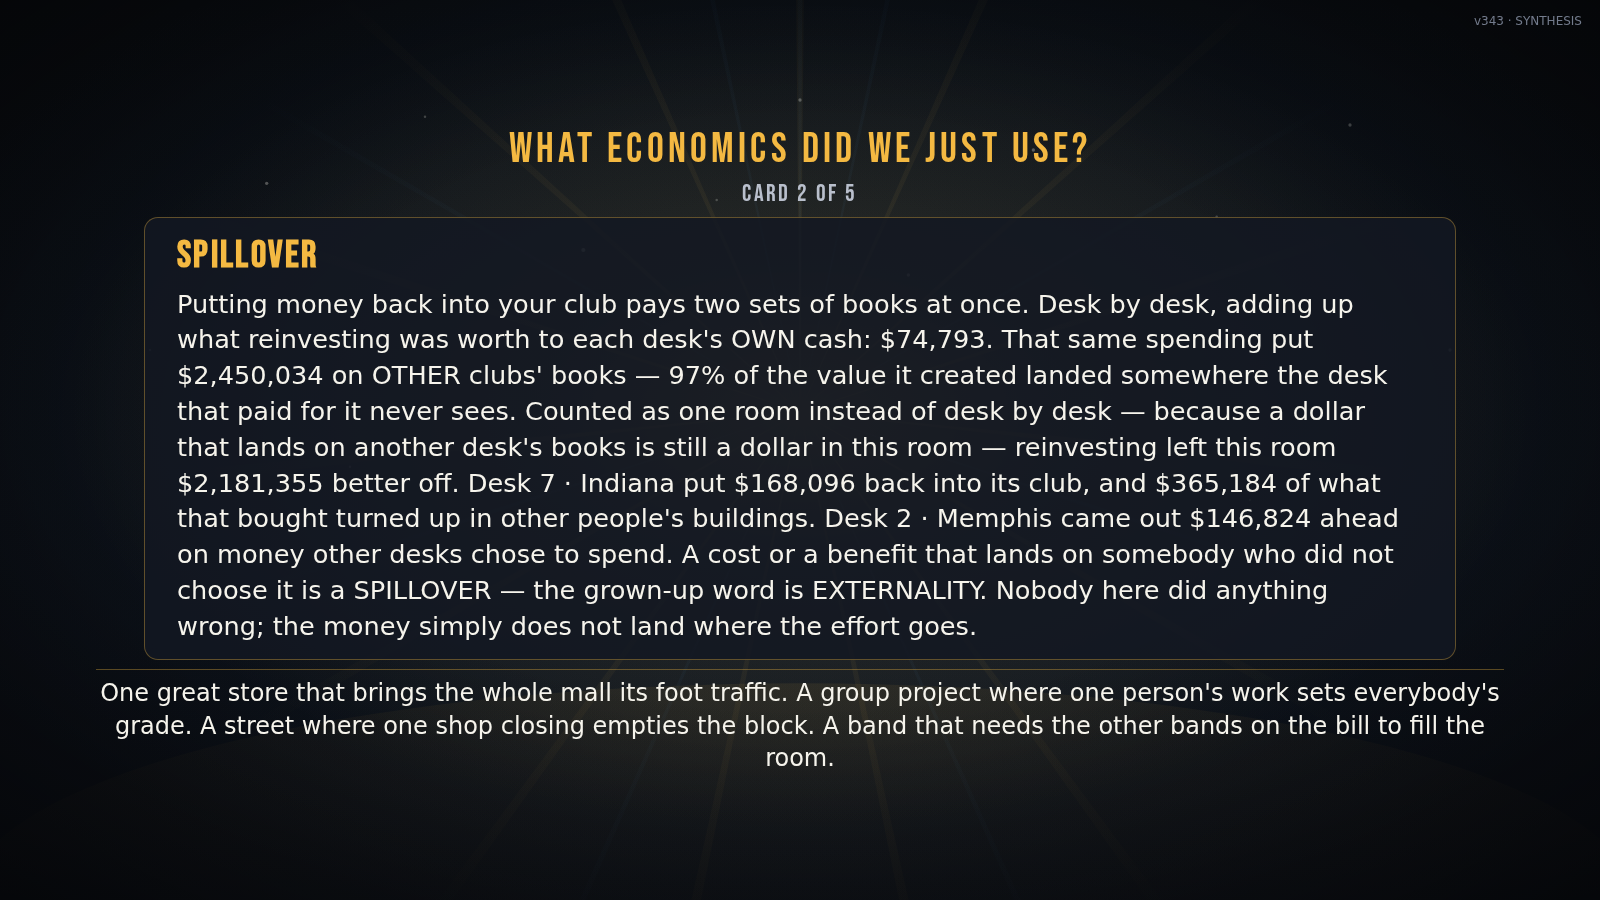
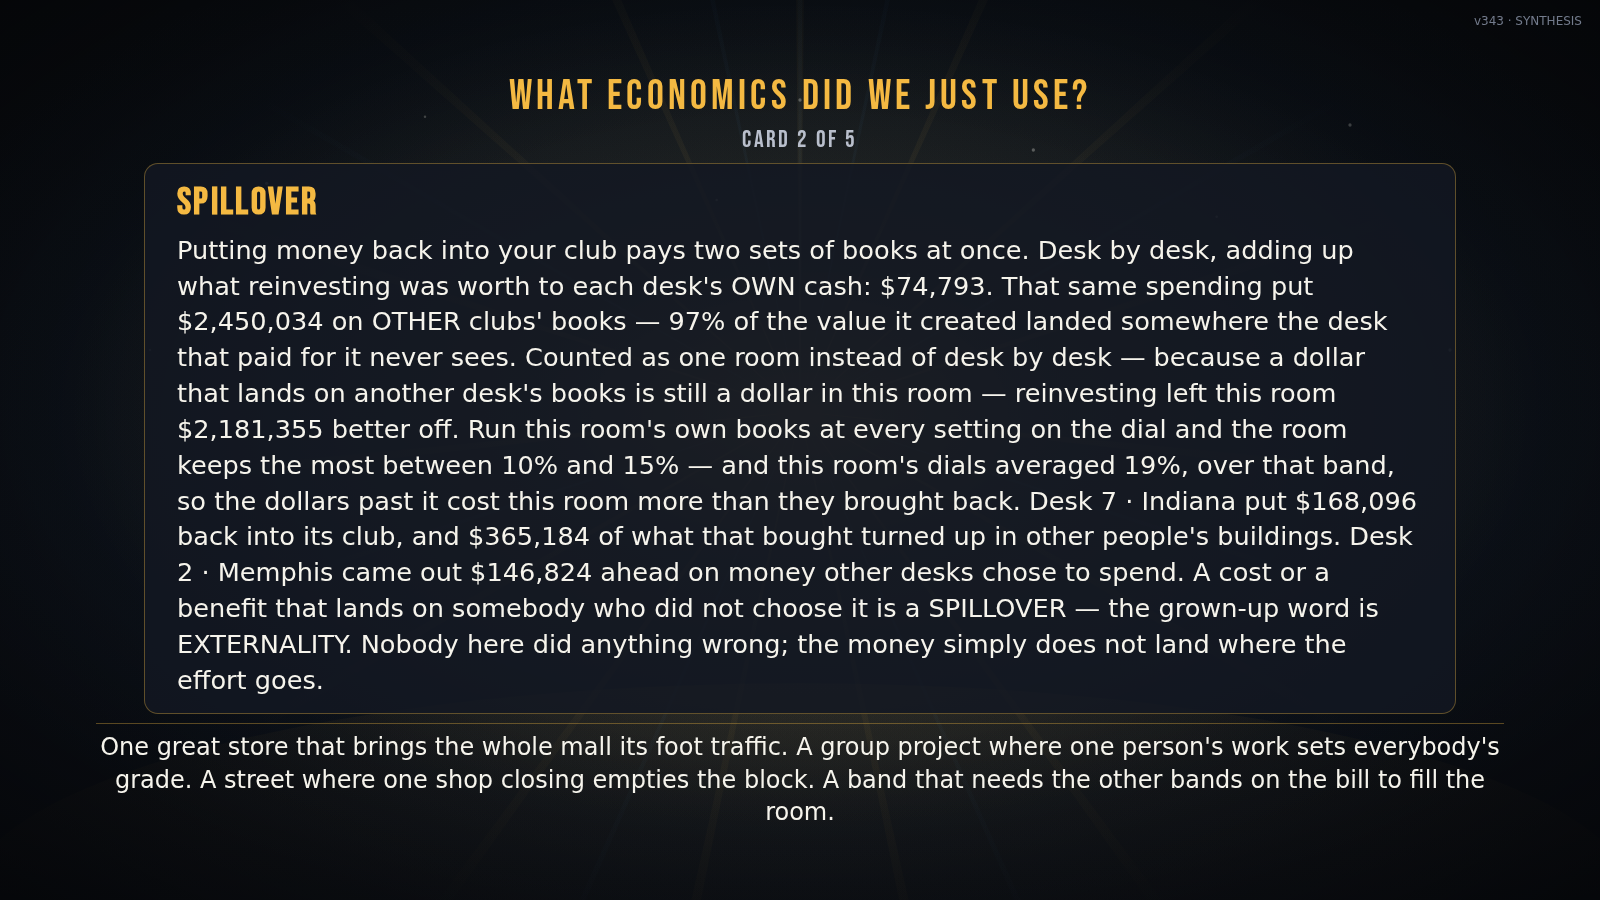
boss(m2): w4 repair 2 — computed prescription band with level-audited atoms (8/8 mutants); FL-M retitled

Changed region(s): [[0.0625, 0.0622, 0.9375, 0.9022]]

diff --git a/runtime/src/test/hostTheLeague.test.ts b/runtime/src/test/hostTheLeague.test.ts
@@ -25,6 +25,7 @@ import {
   MAX_DESKS,
   NATIONAL,
   OFFSETS,
+  OPTIMUM_BAND_TOLERANCE,
   PRICE_GRID,
   PRICE_MAX,
   PRICE_MIN,
@@ -48,6 +49,8 @@ import {
   priceCounterfactualFor,
   reinvestChangeLine,
   reinvestRuleFor,
+  roomCashAtShiftedShares,
+  roomCashAtUniformShare,
   sawBarBeforeWeek3,
   scheduleFor,
   teachStage5MirrorClaimed,
@@ -1070,11 +1073,18 @@ test("econ B9 (N11): no surface ever says over-investment in a room that came ou
         }
         if (ct.roomJointGain < 0 && ct.externalPct === null) {
           assert.equal(
-            /less went back in than this room's own numbers would justify/.test(surface.text),
+            /the room as a whole still came out ahead/.test(surface.text),
             false,
-            `${P.label} · ${S.label} · ${surface.surface}: under-provision printed in a room that came out behind`,
+            `${P.label} · ${S.label} · ${surface.surface}: "came out ahead" printed in a room that came out behind`,
           );
         }
+        // econ N17/FL-L: the retired clause may not come back anywhere, in any
+        // arm, on any surface. It was a marginal claim decided by a total.
+        assert.equal(
+          /less went back in than this room's own numbers would justify/.test(surface.text),
+          false,
+          `${P.label} · ${S.label} · ${surface.surface}: the retired FL-L clause is back on a surface`,
+        );
       }
       // The branch word is an ATOM, so the audit can see it — not prose beside one.
       const spill = spilloverClaim(ct);
@@ -1084,7 +1094,7 @@ test("econ B9 (N11): no surface ever says over-investment in a room that came ou
         assert.equal(
           noun!.rendered,
           ct.roomJointGain > 0
-            ? "less went back in than this room's own numbers would justify"
+            ? "the room as a whole still came out ahead"
             : ct.roomJointGain < 0
               ? "this room over-invested"
               : "the room came out exactly level",
@@ -1097,6 +1107,165 @@ test("econ B9 (N11): no surface ever says over-investment in a room that came ou
   assert.ok(withheld > 0, "no room in the sweep withheld the share — the branch under test never fired");
   assert.ok(ahead > 0, "no room in the sweep came out jointly ahead — the N11 case was never exercised");
   assert.ok(behind > 0, "no room in the sweep came out jointly behind — the over-investment case was never exercised");
+});
+
+test("econ B11 (N17): the level instrument reproduces the room's ACTUAL books exactly, and reduces to the room's own weeks", () => {
+  // `roomCashAtShares` is the whole basis of the level sentence, so the first
+  // thing it has to survive is the identity: fed each week's own share back, it
+  // must land on the number the reducer actually settled, to the dollar. If it
+  // drifts here it is not this room's books and no sentence built on it means
+  // anything.
+  for (const desks of [8, 12]) {
+    for (const price of [30, 50, 70, 110]) {
+      for (const shape of [() => 0, () => 10, () => 25, () => SHARE_MAX, (i: number) => (i % 2 === 0 ? 0 : SHARE_MAX), (i: number) => SHARE_GRID[i % SHARE_GRID.length]!]) {
+        let room = seated(desks);
+        for (let w = 0; w < WEEK_COUNT; w += 1) room = playWeek(room, () => price, shape);
+        const settled = room.clubs
+          .filter((c) => c.seatId !== null && c.weeks.length > 0)
+          .reduce((sum, c) => sum + c.weeks.reduce((t, w) => t + w.net, 0), 0);
+        assert.equal(
+          roomCashAtShiftedShares(room, 0),
+          settled,
+          `${desks} desks · $${price}: the level instrument disagrees with the room's settled cash`,
+        );
+      }
+    }
+  }
+});
+
+test("econ B11/FL-L (N17, BLOCKING): no surface tells a room to put MORE back in where a one-step increase lowers room cash", () => {
+  // THE BLOCKING FAILURE, stated as a property. The retired clause — "less went
+  // back in than this room's own numbers would justify" — was a claim about the
+  // room's LEVEL decided by the SIGN of a total. It fired only at shares >= 25%
+  // and the room's own books peak at 10-15%, so a uniform +5pp step made those
+  // rooms jointly WORSE off in 68 of 86 rooms the econ critic measured. The
+  // prescription is now built from `roomOptimum` and may only print where the
+  // room's own one-step gradient agrees.
+  const PRESCRIBE_MORE = "putting more back in would have left this room holding more money";
+  const PRESCRIBE_LESS = "the dollars past it cost this room more than they brought back";
+  const arms: Record<string, number> = {};
+  let checkedMore = 0;
+  let checkedLess = 0;
+  let upHurtRooms = 0;
+  for (const desks of [8, 12]) {
+    for (const price of [30, 50, 70, 90, 110]) {
+      for (const shape of [
+        () => 0,
+        () => 5,
+        () => 10,
+        () => 15,
+        () => 25,
+        () => SHARE_MAX,
+        (i: number) => (i % 2 === 0 ? 0 : SHARE_MAX),
+        (i: number) => (i === 0 ? SHARE_MAX : 0),
+        (i: number) => SHARE_GRID[i % SHARE_GRID.length]!,
+      ]) {
+        let room = seated(desks);
+        for (let w = 0; w < WEEK_COUNT; w += 1) room = playWeek(room, () => price, shape);
+        const ct = computeAggregate(room).choiceTotals;
+        if (!ct.anySpend) continue;
+        const opt = ct.roomOptimum;
+        arms[opt.relation] = (arms[opt.relation] ?? 0) + 1;
+        const base = roomCashAtShiftedShares(room, 0);
+        const up = roomCashAtShiftedShares(room, 5);
+        const down = roomCashAtShiftedShares(room, -5);
+        if (up <= base) upHurtRooms += 1;
+        const label = `${desks} desks · $${price} · band ${opt.bandLo}-${opt.bandHi}% · level ${opt.actualShare}% · ${opt.relation}`;
+        // EVERY claim-carrying surface, because the same builder reaches
+        // board:reveal-2, teach:adapt-q3 and synthesis:spillover.
+        for (const surface of moduleClaims(room)) {
+          if (surface.text.includes(PRESCRIBE_MORE)) {
+            checkedMore += 1;
+            assert.ok(up > base, `${label} · ${surface.surface}: told to put MORE back in, but +5pp on every dial moves the room ${base} -> ${up}`);
+          }
+          if (surface.text.includes(PRESCRIBE_LESS)) {
+            checkedLess += 1;
+            assert.ok(down > base, `${label} · ${surface.surface}: told it overspent, but -5pp on every dial moves the room ${base} -> ${down}`);
+          }
+        }
+        // And the range printed is the range computed, on every surface.
+        for (const surface of moduleClaims(room)) {
+          const lo = surface.claims.find((c) => c.id === "spillover.bandLo");
+          const hi = surface.claims.find((c) => c.id === "spillover.bandHi");
+          if (!lo || !hi) continue;
+          assert.equal(lo.value, opt.bandLo, `${label} · ${surface.surface}: printed low edge`);
+          assert.equal(hi.value, opt.bandHi, `${label} · ${surface.surface}: printed high edge`);
+          assert.ok(lo.value <= opt.bestShare && hi.value >= opt.bestShare, `${label}: the printed range excludes its own best setting ${opt.bestShare}%`);
+          assert.ok(surface.text.includes(lo.rendered) && surface.text.includes(hi.rendered), `${label} · ${surface.surface}: an edge is not on the surface`);
+        }
+      }
+    }
+  }
+  // Non-vacuity in every direction, or this test proves nothing.
+  assert.ok(checkedMore > 0, 'no room in the sweep printed "put more back in" — the FL-L arm was never exercised');
+  assert.ok(checkedLess > 0, 'no room in the sweep printed the overspend clause — that arm was never exercised');
+  assert.ok(upHurtRooms > 0, "no room in the sweep was one where a +5pp step hurts — N17's falsifying region is not covered");
+  assert.ok((arms["below"] ?? 0) > 0 && (arms["above"] ?? 0) > 0 && (arms["inside"] ?? 0) > 0, `the level arms are not all reachable: ${JSON.stringify(arms)}`);
+});
+
+test("econ B12 (N18): the level relation and its range are what the room's own curve says, not what any sign says", () => {
+  // N18: the old limb audited sign(joint) — true of almost every reachable room
+  // — while the sentence beside it asserted a level. This asserts the level
+  // itself, recomputed here from `roomCashAtUniformShare` rather than read off
+  // `roomOptimum`, and asserts the relation's five-way branch independently.
+  for (const desks of [8, 12]) {
+    for (const price of [30, 50, 90]) {
+      for (const shape of [() => 0, () => 10, () => 25, () => SHARE_MAX, (i: number) => SHARE_GRID[i % SHARE_GRID.length]!]) {
+        let room = seated(desks);
+        for (let w = 0; w < WEEK_COUNT; w += 1) room = playWeek(room, () => price, shape);
+        const opt = computeAggregate(room).choiceTotals.roomOptimum;
+        const curve = SHARE_GRID.map((s) => roomCashAtUniformShare(room, s));
+        const max = Math.max(...curve);
+        const floorAt = max - (max - Math.min(...curve)) * OPTIMUM_BAND_TOLERANCE;
+        const label = `${desks} desks · $${price}`;
+        assert.equal(curve[SHARE_GRID.indexOf(opt.bestShare)], max, `${label}: bestShare is not the argmax of the room's own curve`);
+        for (const s of SHARE_GRID) {
+          const inBand = s >= opt.bandLo && s <= opt.bandHi;
+          if (inBand) assert.ok(curve[SHARE_GRID.indexOf(s)]! >= floorAt, `${label}: ${s}% is inside the printed band but below the band floor`);
+        }
+        // The band must be contiguous around the best and stop where the curve does.
+        if (opt.bandLo > 0) assert.ok(curve[SHARE_GRID.indexOf(opt.bandLo) - 1]! < floorAt, `${label}: the band stops short of a setting that qualifies`);
+        if (opt.bandHi < SHARE_MAX) assert.ok(curve[SHARE_GRID.indexOf(opt.bandHi) + 1]! < floorAt, `${label}: the band stops short of a setting that qualifies`);
+        // The five-way relation, re-derived.
+        const base = roomCashAtShiftedShares(room, 0);
+        const want =
+          opt.actualShare < opt.bandLo
+            ? roomCashAtShiftedShares(room, 5) > base
+              ? "below"
+              : "underButFlat"
+            : opt.actualShare > opt.bandHi
+              ? roomCashAtShiftedShares(room, -5) > base
+                ? "above"
+                : "overButFlat"
+              : "inside";
+        assert.equal(opt.relation, want, `${label}: the printed relation is not the one the room's own curve and gradient give`);
+      }
+    }
+  }
+});
+
+test("econ FL-M (N21): the composition card claims no unbound superlative, and counts the desks the national check really leads", () => {
+  // The measured failure: the title "THE BIGGEST CHECK IS THE ONE NOBODY
+  // CONTROLS" was false for 28-30 of every 100 desk-instances at every price
+  // probed — a desk's local media routinely beats its national check.
+  let sawMinority = false;
+  for (const desks of [8, 12]) {
+    for (const price of [30, 50, 70, 90, 110]) {
+      let room = seated(desks);
+      for (let w = 0; w < WEEK_COUNT; w += 1) room = playWeek(room, () => price, () => 10);
+      const agg = computeAggregate(room);
+      const card = synthesisCards(room, agg).find((c) => c.id === "composition")!;
+      const label = `${desks} desks · $${price}`;
+      assert.equal(/BIGGEST CHECK/.test(card.title), false, `${label}: the unbound superlative is back in the title`);
+      const want = agg.pipes.filter((p) => p.national >= p.gate && p.national >= p.inArena && p.national >= p.localMedia).length;
+      if (want < agg.pipes.length) sawMinority = true;
+      const atom = card.claims!.find((c) => c.id === "composition.nationalBiggestCount");
+      assert.ok(atom, `${label}: the counted superlative carries no atom`);
+      assert.equal(atom!.value, want, `${label}: printed count`);
+      assert.match(card.body, new RegExp(`on ${want} of ${agg.pipes.length} desks`), `${label}: the count is not on the card`);
+    }
+  }
+  assert.ok(sawMinority, "no probed room had a desk whose national check was NOT its biggest pipe — FL-M was never exercised");
 });
 
 test("econ FL-K: the give/take sub-label prints the measured dealt share, never an unbound 'most'", () => {

diff --git a/runtime/README.md b/runtime/README.md
@@ -590,8 +590,18 @@ subsequence of this order (`isOrderedSubsequence`, enforced at
 npm test
 ```
 
-**403 tests, 403 passing** (`node --test`, no test framework dependency), run
-this session (wave 4, `w4-l2-closeout`). Six of them are new and belong to the
+**411 tests, 411 passing** (`node --test`, no test framework dependency), run
+this session (wave 4, `w4-repair2`). Four of those tests are newer still and
+belong to the econ N17/N18 level repair: econ B11 (the level instrument
+reproduces the room's settled cash to the dollar), econ B11/FL-L (no surface
+tells a room to put MORE back in where a one-step increase lowers room cash, on
+every claim-carrying surface), econ B12 (the printed sweet-spot range and its
+five-way relation are what the room's own cash-by-share curve says), and econ
+FL-M (the composition card carries no unbound superlative and counts the desks
+the national check actually leads). Both instruments were proven non-vacuous
+this session by a source-level mutation of `roomOptimumFor`'s relation branch:
+tests 259/260 failed and harness P11 reported 228 LEVEL disagreements. Six
+earlier tests belong to the
 claim-audit work: `CLAIM AUDIT` (every rendered board/synthesis/ADAPT claim
 string recomputed against the reducer in sign, quantifier and bound), econ B7
 (no printed share above 100%, none at 0% beside measured spillover), econ B8
@@ -770,7 +780,23 @@ three static pages), not a general-purpose framework being reinvented.
   poorer door while the arithmetic version holds bots at their actual spend per
   the module's declared carve-out. The printed figure is the carve-out-matched
   one; the discrepancy is a scope difference, not an error, and is not disclosed
-  on any student-facing surface. (o) The post-hoc price counterfactual (play
+  on any student-facing surface. (n2) **The LEVEL sentence (econ N17/N18,
+  wave-4 repair 2).** The SPILLOVER card's prescription is no longer a direction
+  word branched off `sign(roomJointGain)`; it prints the room's own computed
+  sweet-spot RANGE, from `roomOptimum`, which re-runs the identical season at
+  every setting on the dial through `roomCashAtShares`. That instrument
+  reproduces the room's settled cash exactly at the room's own dials and agreed
+  with a full reducer replay to **$0** on ±5pp shifts and on uniform worlds over
+  120 probed rooms. A direction word prints only where the room's level is
+  outside its own band AND a one-step move that way measurably pays; the two
+  `underButFlat` / `overButFlat` arms are where those disagree and they
+  prescribe nothing. Known limits: the band edge depends on
+  `OPTIMUM_BAND_TOLERANCE` (5% of the curve's spread), which is a rendering
+  choice and not derived from anything; the band is a UNIFORM-share comparative
+  static while a real room's dials are heterogeneous, which is exactly what the
+  `Flat` arms exist to disclose; and `underButFlat` has not been observed in any
+  sweep run so far, so that arm's copy is untested against real output. (o) The
+  post-hoc price counterfactual (play
   N-5) re-prices **one settled week only**. A different price would have bought
   a different reinvest dollar and therefore a different Draw the following week;
   the card says so in words but does not model it, and no surface shows what a
